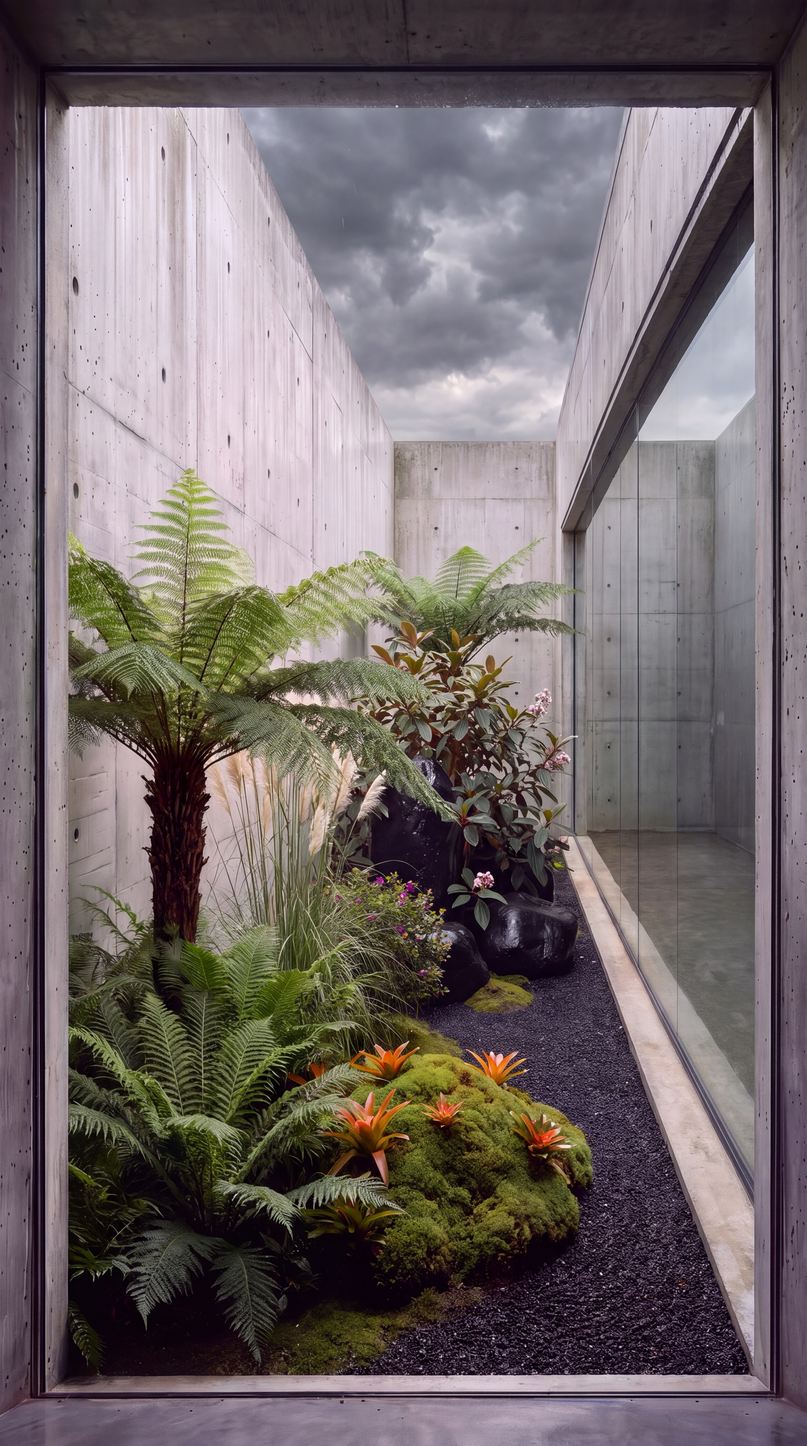
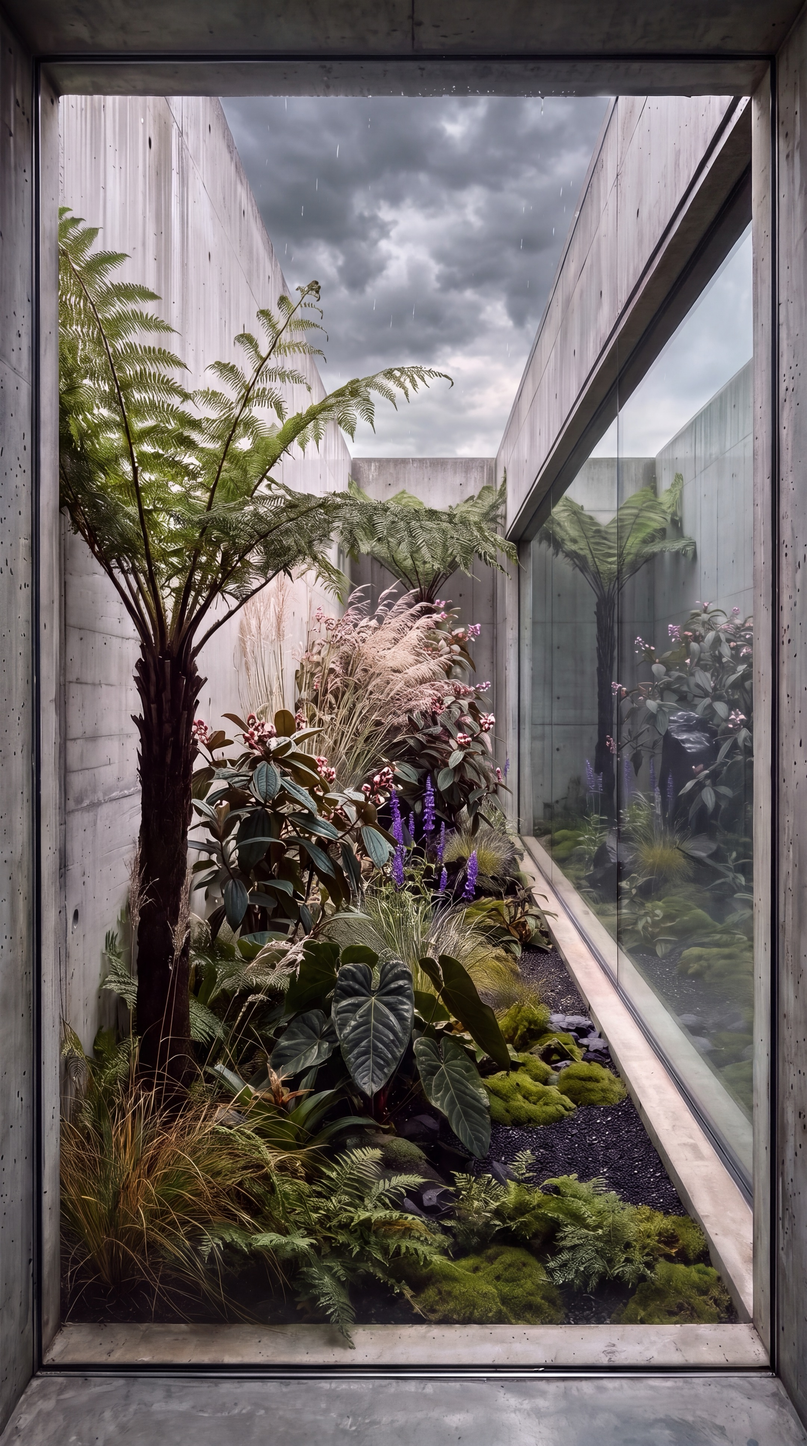
Matrix and boulders: rebuilt from the two originals, grass and violet accents, matching side view

diff --git a/index.html b/index.html
@@ -362,10 +362,10 @@ const EXP_ID = "inner-garden-2026-10";
 /* ---------- data ---------- */
 const MOODS = ["Lush","Japanese","Sculptural"];
 const G = [
-{k:"matrix-boulders-1",n:"Matrix and boulders",mood:"Lush",one:"The matrix planting around a black boulder group, a melastome in full bloom.",
+{k:"matrix-boulders-1",n:"Matrix and boulders",mood:"Lush",one:"The matrix planting around a black boulder group, a melastome in full bloom, violet spires through the grasses.",
  insp:["Piet Oudolf","Kinsaku Nakane"],ground:"Moss and raked black gravel",hard:"Three glossy black boulders, tall one at the back",tall:"About 2.6 m (tree ferns)",care:3,
  look:"Oudolf's matrix on one side, Nakane's boulders on the other: grass plumes and ferns lead to a black stone group that a pink-flowered melastome grows through, tree ferns at both ends.",
- plants:[["Tree fern","Cyathea","canopy"],["Melastome shrub","Miconia or Leandra","hero"],["Plume grass","Chusquea or a native sedge","matrix"],["Ferns","Blechnum, Pteris","understory"],["Bromeliads","Guzmania","accent"],["Moss","","ground"]],
+ plants:[["Tree fern","Cyathea","canopy"],["Melastome shrub","Miconia or Leandra","hero"],["Plume grass","Chusquea or a native sedge","matrix"],["Ferns","Blechnum, Pteris","understory"],["Violet sage","Salvia","accent"],["Anthurium","Anthurium","foliage"],["Moss","","ground"]],
  watch:"The melastome needs room to arch over the stones and flowers best with some light. Keep the rock group stable and low-maintenance, and let the matrix thin toward it.",
  mood3:[4,3,3]},
 {k:"oudolf-2",n:"Matrix",mood:"Lush",one:"Grass plumes drifting through low green, a tree fern at each end.",
